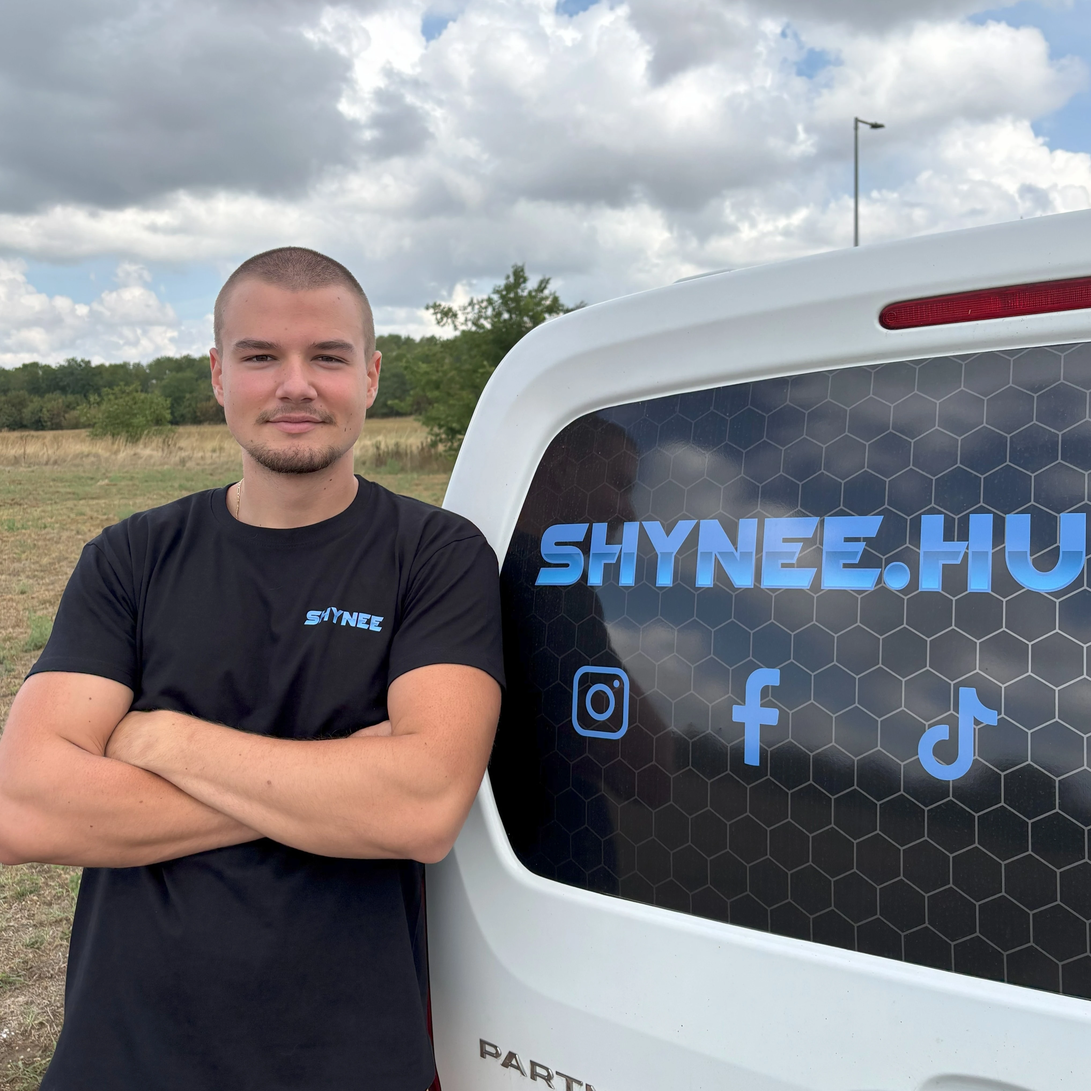
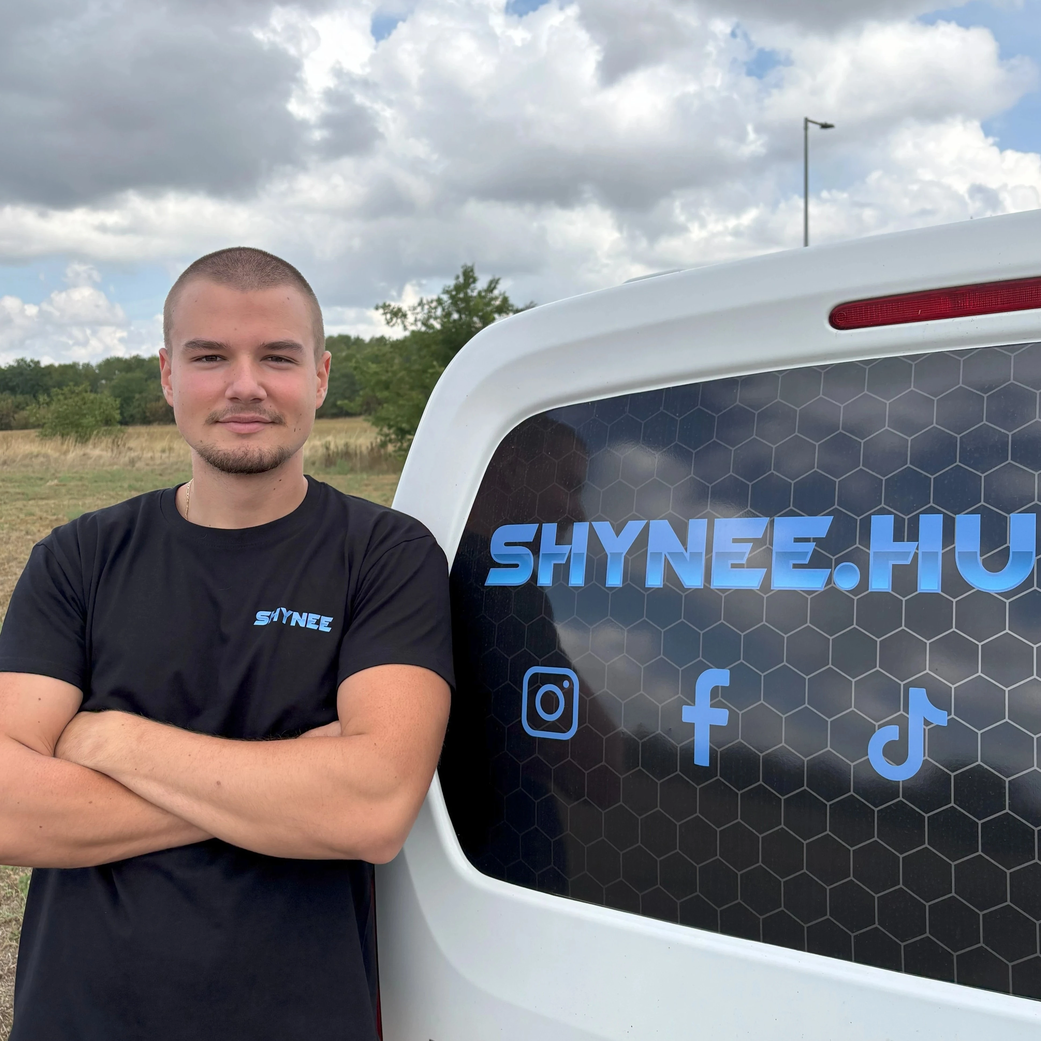
images added | webp update

diff --git a/client/src/pages/Home.jsx b/client/src/pages/Home.jsx
@@ -2,30 +2,40 @@
   import Title from '../components/Title';
   import BeforeAfterSlider from '../components/BeforeAfterSlider';
 
-  import kep1 from '../images/kep1.png';
-  import kep2 from '../images/kep2.png';
-  import kep3 from '../images/kep3.png';
-  import kep4 from '../images/kep4.png';
+  import bmw_3k from '../images/bmw_3k.webp';
+  import bmw_3t from '../images/bmw_3t.webp';
+  import bmw_4k from '../images/bmw_4k.webp';
+  import bmw_4t from '../images/bmw_4t.webp';
+  import bmw_6k from '../images/bmw_6k.webp';
+  import bmw_6t from '../images/bmw_6t.webp';
+  import merci_2k from '../images/merci_2k.webp';
+  import merci_2t from '../images/merci_2t.webp';
+  import toyo_4k from '../images/toyo_4k.webp';
+  import toyo_4t from '../images/toyo_4t.webp';
+  import vw_2k from '../images/vw_2k.webp';
+  import vw_2t from '../images/vw_2t.webp';
+  import vw_4k from '../images/vw_4k.webp';
+  import vw_4t from '../images/vw_4t.webp';
+  import vw_9k from '../images/vw_9k.webp';
+  import vw_9t from '../images/vw_9t.webp';
   import boti from '../images/boti.webp';
   import bese from '../images/bese.webp';
   import shiny_outside from '../images/shiny_outside.jpg';
   import shiny_inside from '../images/shiny_inside.png';
-  import shyneeindex from '../images/shyneeindex.png';
-  import shyneetextniceres2 from '../images/shyneetextniceres2.PNG';
-  import ShyneeLOGO from '../images/ShyneeLOGO.png';
+  import shyneetextniceres2 from '../images/shyneetextniceres2.webp';
   import './Home.css';
   import FAQ from '../components/FAQ';
 
   export default function Home() {
     const sliderPairs = [
-      { before: kep1, after: kep1 },
-      { before: kep1, after: kep1 },
-      { before: kep1, after: kep1 },
-      { before: kep1, after: kep1 },
-      { before: kep1, after: kep1 },
-      { before: kep1, after: kep1 },
-      { before: kep1, after: kep1 },
-      { before: kep1, after: kep1 }
+      { before: merci_2k, after: merci_2t },
+      { before: toyo_4k,  after: toyo_4t  },
+      { before: vw_2k,    after: vw_2t    },
+      { before: vw_4k,    after: vw_4t    },
+      { before: vw_9k,    after: vw_9t    },
+      { before: bmw_3k,   after: bmw_3t   },
+      { before: bmw_4k,   after: bmw_4t   },
+      { before: bmw_6k,   after: bmw_6t   }
     ];
 
     return (
@@ -66,7 +76,7 @@
                     beforeImage={pair.before}
                     afterImage={pair.after}
                     width="100%"
-                    height="300px"
+                    height="auto"
                   />
                 </div>
               ))}

diff --git a/client/src/pages/Rólunk.jsx b/client/src/pages/Rólunk.jsx
@@ -2,11 +2,9 @@ import React, { useState, useRef, useEffect } from "react";
 import { motion, AnimatePresence } from "framer-motion";
 import { useInView } from "react-intersection-observer";
 import video from "../videos/video1.mp4";
-import poster from "../images/kep2.png";
-import kep1 from "../images/kep1.png";
+import poster from "../images/shiny_outside.jpg";
 import kep2 from "../images/bese.webp";
 import kep3 from "../images/boti.webp";
-import shynee from "../images/ShyneeLOGO.png";
 import "./Rólunk.css";
 import { Link } from "react-router-dom";
 
@@ -21,10 +19,6 @@ export default function Rólunk() {
   const motto = "Minőség. Szenvedély. Megbízhatóság.";
 
   const imageData = [
-    {
-      image: shynee,
-      text: `A Shynee 2025-ben alakult Budapesten azzal a céllal, hogy új szintre emelje az autóápolás élményét: kompromisszumok nélkül, házhoz jövünk – akár otthonodba, akár munkahelyedhez – és prémium minőségben tisztítjuk meg autódat kívül-belül.`,
-    },
     { image: kep2, text: "Text" },
     { image: kep3, text: "Text" },
   ];
@@ -171,8 +165,8 @@ export default function Rólunk() {
             >
               <motion.img
                 src={item.image}
-                alt={item.image === shynee ? "shyneelogo" : `image-${index}`}
-                className={`side-image ${item.image === shynee ? "shynee-logo" : ""}`}
+                alt={`image-${index}`}
+                className="side-image"
                 initial={{ opacity: 0 }}
                 animate={inView ? { opacity: 1 } : {}}
                 transition={{ duration: 0.8, delay: 0.2, ease: "easeOut" }}

diff --git a/client/src/components/Footer.jsx b/client/src/components/Footer.jsx
@@ -6,7 +6,7 @@ import './Footer.css';
 import simplepayLogo from '../images/logos/simplepay.svg';
 import visaLogo from '../images/logos/Visa_Inc._logo.svg';
 import mastercardLogo from '../images/logos/Mastercard.svg';
-import shyneeText from '../images/shyneetextniceres2.PNG';
+import shyneeText from '../images/shyneetextniceres2.webp';
 
 export default function Footer() {
   const scrollToTop = () => {

diff --git a/client/src/components/BeforeAfterSlider.css b/client/src/components/BeforeAfterSlider.css
@@ -6,6 +6,8 @@
   box-shadow: 0 8px 32px rgba(0, 0, 0, 0.3);
   cursor: grab;
   user-select: none;
+  aspect-ratio: 1 / 1;
+  height: auto;
 }
 
 .before-after-container:active {
@@ -115,7 +117,7 @@
 /* Mobile Optimizations */
 @media (max-width: 768px) {
   .before-after-container {
-    aspect-ratio: 16/9;
+    aspect-ratio: 1/1;
     height: auto !important;
   }
   

diff --git a/client/src/components/Title.jsx b/client/src/components/Title.jsx
@@ -1,7 +1,7 @@
 import { motion } from 'framer-motion';
 import { useEffect, useState } from 'react';
 import './Title.css';
-import shyneetextpng from '../images/shyneetextniceres2.PNG';
+import shyneetextpng from '../images/shyneetextniceres2.webp';
 
 const subText = "Autóápolás Mindenhol";
 const typingSpeed = 80;

diff --git a/client/src/components/Navbar/Navbar.jsx b/client/src/components/Navbar/Navbar.jsx
@@ -3,7 +3,7 @@ import React, { useState, useEffect } from 'react';
 import { Link, useLocation } from 'react-router-dom';
 import { motion } from 'framer-motion';
 import './Navbar.css';
-import logo from './logo.png';
+import logo from './logo.webp';
 
 const navLinks = [
   { path: '/rendeles', label: 'Rendelés' },
